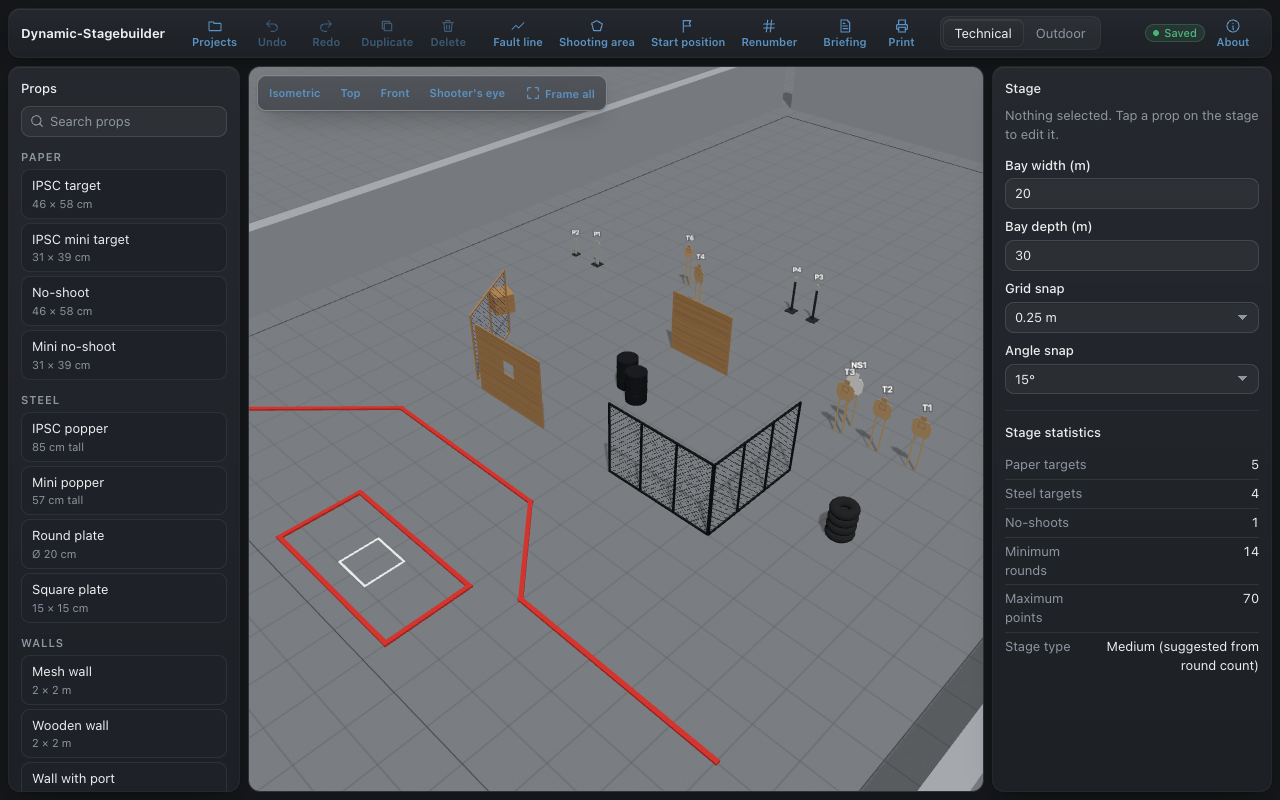
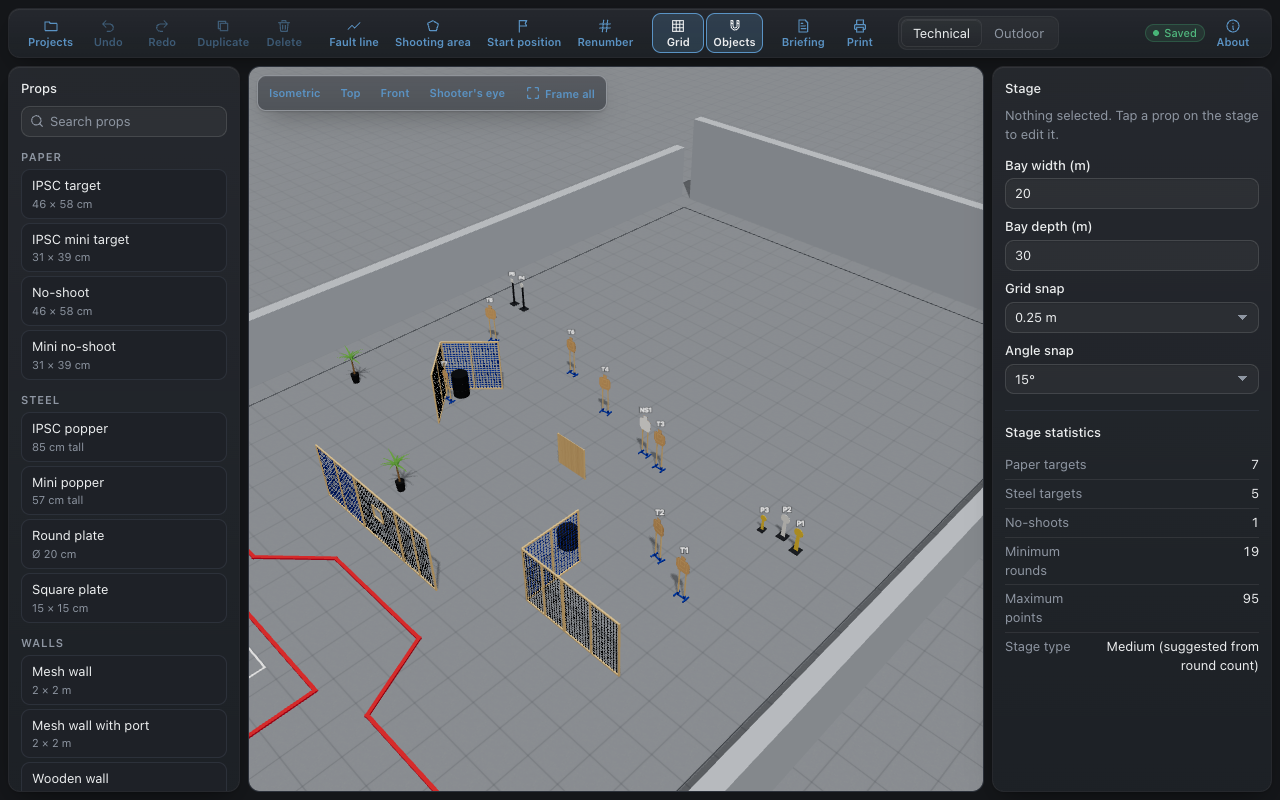
docs: snapping, fine moves, new props and the outdoor look

diff --git a/README.md b/README.md
@@ -18,11 +18,14 @@ training, and want a clear briefing sheet without drawing the map by hand.
 - **Prop library**, every prop drawn in 3D at real dimensions:
   - paper: IPSC target, mini target, no-shoot, mini no-shoot (on sticks, adjustable height)
   - steel: IPSC popper, mini popper, round plate, square plate
-  - walls: mesh wall (black or blue mesh, black or wood frame), wooden wall, wall with a real port
-  - obstacles: barrel, tyre, tyre stack, wooden crate
+  - walls: mesh wall and mesh wall with port (black or blue 10 cm wire mesh, pine or black frame),
+    wooden wall, wooden wall with port; ports are real openings
+  - obstacles: barrel, tyre, tyre stack, wooden crate, potted plant (decoration)
   - fault lines, shooting areas and the start position
 - **Editing by eye:** tap or drag props in, drag them on the ground, rotate them, all with grid and
   angle snapping; multi-select, duplicate, delete, undo and redo.
+- **Snapping:** walls snap end to end onto nearby walls, so a run of walls joins up cleanly; other
+  props snap to the grid. Hold **Shift** while dragging for slow, fine moves without snapping.
 - **Automatic target numbers** (T1…, P1… for steel, NS1… for no-shoots), with hand-set labels kept.
 - **Live statistics:** targets, no-shoots, minimum rounds, maximum points, suggested stage type.
 - **Written Stage Briefing** editor: match, stage name and number, designer, stage type, scoring,
@@ -30,8 +33,8 @@ training, and want a clear briefing sheet without drawing the map by hand.
   points are counted from the stage.
 - **Printable brief** (A4): briefing and a top-down map with a scale bar on page 1, a 3D view on
   page 2. Save it as a PDF from the print dialog.
-- **Two surroundings,** Technical (grey floor, grid) and Outdoor (dirt, sunlight). Switching never
-  moves anything on the stage.
+- **Two surroundings,** Outdoor (a dirt range at golden hour with earth banks, bushes and trees,
+  long soft shadows) and Technical (grey floor, grid). Switching never moves anything on the stage.
 - **Cameras:** orbit, pan, zoom, Top, Isometric, Front and a shooter's-eye view from the start position.
 - **Projects** saved in the browser automatically, with JSON export and import.
 - **Works offline** and can be installed as an app (PWA).
@@ -48,6 +51,11 @@ not supported: below 768 px wide the app asks you to use a larger screen. Englis
 
 ### Unreleased
 
+- Walls snap end to end to nearby walls; Grid and Objects snapping toggles in the toolbar.
+- Hold Shift while dragging for slow, fine moves.
+- New Mesh wall with port and Potted plant; poppers and plates can be white or yellow.
+- A new outdoor look after a real dirt range: pine-framed square wire mesh, cardboard targets on
+  blue steel stands, earth banks with grass and trees, warm low sun and soft shadows.
 - The 3D stage editor: shooting bay, prop library (paper, steel, walls with real ports, obstacles),
   fault lines, shooting areas and the start position; drag, rotate, duplicate, delete, undo/redo.
 - Automatic target numbers (T1, P1, NS1) and live round count, points and suggested stage type.
@@ -63,8 +71,12 @@ not supported: below 768 px wide the app asks you to use a larger screen. Englis
 
 <table>
   <tr>
-    <td><img src="docs/screenshots/editor-technical.png" alt="The editor with the Technical surroundings" width="400"><br>The editor: prop library, the stage in the Technical surroundings, stage statistics</td>
-    <td><img src="docs/screenshots/editor-outdoor.png" alt="The same stage outdoors with a wall selected" width="400"><br>The same stage outdoors, with a mesh wall selected and its rotate ring</td>
+    <td><img src="docs/screenshots/editor-outdoor.png" alt="The editor with the Outdoor surroundings" width="400"><br>The editor: prop library, the stage on an outdoor dirt range at golden hour, stage statistics</td>
+    <td><img src="docs/screenshots/outdoor-close.png" alt="Close-up of joined mesh walls with a port" width="400"><br>Close up: walls joined end to end, a mesh wall with port, targets on stands, lattice shadows</td>
+  </tr>
+  <tr>
+    <td><img src="docs/screenshots/editor-technical.png" alt="The same stage in the Technical surroundings with a wall selected" width="400"><br>The same stage in the Technical surroundings, with a wall selected and its rotate ring</td>
+    <td><img src="docs/screenshots/ipad-landscape.png" alt="The editor at iPad landscape width" width="400"><br>On an iPad (1024 px): the inspector moves under the 3D view</td>
   </tr>
   <tr>
     <td><img src="docs/screenshots/shooters-eye.png" alt="Shooter's eye view from the start position" width="400"><br>Shooter's eye: the view from the start position at 1.6 m</td>
@@ -76,7 +88,7 @@ not supported: below 768 px wide the app asks you to use a larger screen. Englis
   </tr>
   <tr>
     <td><img src="docs/screenshots/projects.png" alt="The Projects dialog" width="400"><br>Projects saved in this browser, with export hints</td>
-    <td><img src="docs/screenshots/ipad-landscape.png" alt="The editor at iPad landscape width" width="400"><br>On an iPad (1024 px): the inspector moves under the 3D view</td>
+    <td></td>
   </tr>
 </table>
 
@@ -103,14 +115,16 @@ Stage settings are in the inspector when nothing is selected. They are saved wit
 |---|---|---|
 | Bay width | Width of the shooting bay across the range, 1–200 m | 20 m |
 | Bay depth | Depth of the bay down range, 1–200 m | 30 m |
-| Grid snap | Positions snap to this grid: off, 0.1, 0.25, 0.5 or 1 m | 0.25 m |
+| Grid snap | Positions snap to this grid: off, 0.1, 0.25, 0.5 or 1 m (toolbar *Grid* turns it on/off) | 0.25 m |
+| Object snap | Toolbar *Objects*: a wall's end jumps onto another wall's end within 35 cm | On |
 | Angle snap | Rotations snap to this step: off, 5°, 15°, 45° or 90° | 15° |
-| Surroundings | Technical (grey floor, grid) or Outdoor (dirt, sun); never moves the stage | Technical |
+| Surroundings | Outdoor (dirt range, sun) or Technical (grey floor, grid); never moves the stage | Outdoor |
 
 Prop settings (inspector, one prop selected): label (targets), rotation, and per prop: mount height
 for paper targets (0.1–2 m, default 1 m to the target's bottom), base height for steel, plate size
 (15–30 cm), wall length (0.5–4 m) and height (0.5–2.5 m), mesh colour (black/blue), frame
-(black/wood), port width, height and bottom edge, tyres in a stack (1–6), crate size.
+(wood/black), port width, height and bottom edge, paint for poppers and plates (white/yellow),
+tyres in a stack (1–6), crate size.
 
 Scoring follows the IPSC Combined Competition Rules, January 2024 edition (Handgun): 2 hits per
 paper target and 1 per steel target (Comstock), 5 points per A-zone or steel hit, and Short ≤ 12,
@@ -123,6 +137,11 @@ is a suggestion from the round count.
 With a mouse you can also drag a prop from the library onto the stage. Drag a placed prop to move it;
 it snaps to the grid and stays inside the bay. Rotate the selected prop with the green ring, the
 ↺/↻ buttons in the inspector, or Q and E. Shift-click selects several props.
+
+**Join walls.** Drag or drop a wall so its end comes within about 35 cm of another wall's end and
+it jumps into place, end to end (in a straight line or at a corner). Turn *Objects* off in the
+toolbar to place walls freely, and *Grid* off to stop grid snapping. For fine adjustments, hold
+**Shift** while you drag: the prop moves at a fifth of the speed and doesn't snap.
 
 **Draw fault lines and shooting areas.** Choose *Fault line* or *Shooting area* in the toolbar, tap
 the points on the ground, then double-click, press Enter or tap *Finish*. Escape or *Cancel* stops.
@@ -162,6 +181,7 @@ aren't in an exported file shows a hint, so you know when to export a backup.
 | ⌘/Ctrl D | Duplicate the selection |
 | Delete / Backspace | Delete the selection |
 | Q / E | Rotate the selection by the angle snap |
+| Shift while dragging | Move slowly (1/5 speed), without snapping |
 | Enter / Escape | Finish / cancel drawing; Escape also clears the selection |
 | F | Frame all |
 | 1 2 3 4 | Isometric, Top, Front, Shooter's eye |

diff --git a/CLAUDE.md b/CLAUDE.md
@@ -30,7 +30,8 @@ npm run lint        # ESLint, including the unsafe-DOM rule
 - `index.html`: entry page (strict CSP with the import map's sha256, app grid, small-screen message)
 - `css/app.css`: the app's own styles on Låda Glass tokens
 - `js/main.js`: boot and wiring; `js/editor.js`: user actions → undoable stage edits (no DOM)
-- `js/model/`: pure stage data (props, scoring-rules, stage, history, snap, numbering, stats, schema)
+- `js/model/`: pure stage data (props, scoring-rules, stage, history, snap, objsnap, numbering,
+  stats, schema, briefing, map)
 - `js/render/`: Three.js (engine, stage-view, builders/, environments/, camera, labels, picking, ground)
 - `js/ui/`: Låda Glass panels (toolbar, library, inspector, stats, shortcuts, about, dom helpers)
 - `js/demo.js`: the example stage shown on open (until saved projects exist)
@@ -51,6 +52,11 @@ npm run lint        # ESLint, including the unsafe-DOM rule
   a node's `rotation.y = −degrees`.
 - **Stage data is plain JSON and the single source of truth.** It never holds Three.js objects; the
   3D view is rebuilt from it. Every edit goes through `model/history.js` so it can be undone.
+- **Snapping order** (`editor.js` `landing`): Shift (fine) → no snap; else object snap (wall end to
+  wall end, `model/objsnap.js`) → else grid; always clamped to the bay. Groups snap to the grid only.
+- **Looks are generated in code** (canvas textures in `render/materials.js` and
+  `environments/*.js`, seeded random), never downloaded. The Outdoor scene follows the reference
+  photo (golden-hour dirt range); keep that feel when changing it.
 - **Environments never touch stage data.** Scene groups: `environmentGroup` (ground, sky, lights)
   and `stageGroup` (props). A wall's mesh colour and frame are wall properties. A test asserts the
   stage JSON is identical before and after an environment switch.

diff --git a/CHANGELOG.md b/CHANGELOG.md
@@ -4,6 +4,19 @@ All notable changes to Dynamic-Stagebuilder are listed here, newest first.
 
 ## Unreleased
 
+- Object snapping: walls (mesh, mesh with port, wooden) snap end to end to nearby walls (35 cm),
+  grid snap otherwise; *Grid* and *Objects* toggles in the toolbar; `settings.objectSnap` in stage
+  files (older files read as on).
+- Shift while dragging: slow fine moves (1/5 speed) without snapping.
+- New props: Mesh wall with port (a real, framed opening) and Potted plant (decoration). Poppers
+  and plates get a paint setting (white/yellow). The wooden "Wall with port" is now "Wooden wall
+  with port".
+- New look after the reference photo: pine frames and 10 cm square wire mesh, plywood walls,
+  cardboard targets on blue steel stands; Outdoor has earth banks with grass, bushes and trees, a
+  low warm sun with soft shadows, a gradient sky and haze; ACES tone mapping. Outdoor is now the
+  default for new stages, and mesh walls default to a pine frame.
+- Fixed: the service worker no longer stores stale files from the browser's HTTP cache.
+
 - 3D stage editor (Three.js 0.187.0, self-hosted): shooting bay, prop library with IPSC and mini
   targets, no-shoots, poppers, plates, mesh/wooden walls, a wall with a real port, barrels, tyres and
   crates, all at real size; fault lines, shooting areas and the start position.
